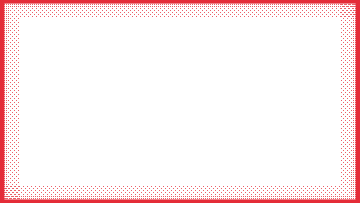
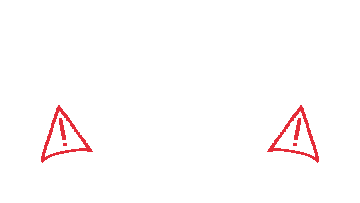
warning hud fix, cannon offfset fix

Changed region(s): [[0.0, 0.0, 1.0, 1.0], [0.0917, 0.5025, 0.275, 0.798], [0.7333, 0.5025, 0.8861, 0.798]]

diff --git a/src/player_ship.cpp b/src/player_ship.cpp
@@ -124,16 +124,16 @@ void player_ship::update_movement() {
 
 void player_ship::update_cannons_x() {
     _left_cannon.first =
-        x() + wze::math::transform_x(-300, 500, transformation_matrix());
+        x() + wze::math::transform_x(-500, 300, transformation_matrix());
     _right_cannon.first =
-        x() + wze::math::transform_x(300, 500, transformation_matrix());
+        x() + wze::math::transform_x(500, 300, transformation_matrix());
 }
 
 void player_ship::update_cannons_y() {
     _left_cannon.second =
-        y() + wze::math::transform_y(-300, 500, transformation_matrix());
+        y() + wze::math::transform_y(-500, 300, transformation_matrix());
     _right_cannon.second =
-        y() + wze::math::transform_y(300, 500, transformation_matrix());
+        y() + wze::math::transform_y(500, 300, transformation_matrix());
 }
 
 void player_ship::shoot(std::vector<laser>& lasers) {
@@ -266,8 +266,8 @@ player_ship::player_ship() {
 
     _speed = 5;
 
-    _left_cannon = {x() - 300, y() + 500};
-    _right_cannon = {x() + 300, y() + 500};
+    _left_cannon = {x() - 500, y() + 300};
+    _right_cannon = {x() + 500, y() + 300};
 
     _active_cannon = false;
     _laser_speed = 100;
